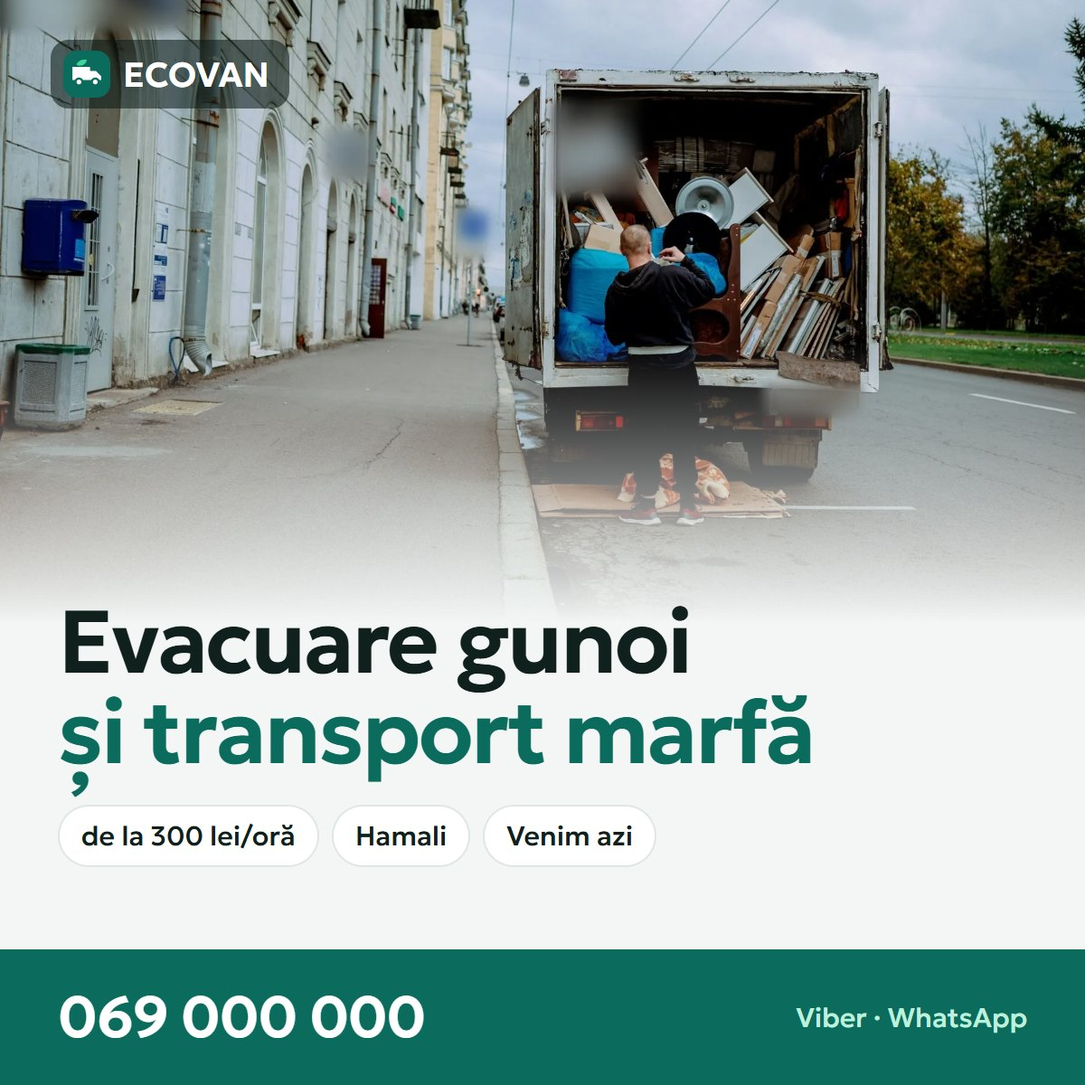
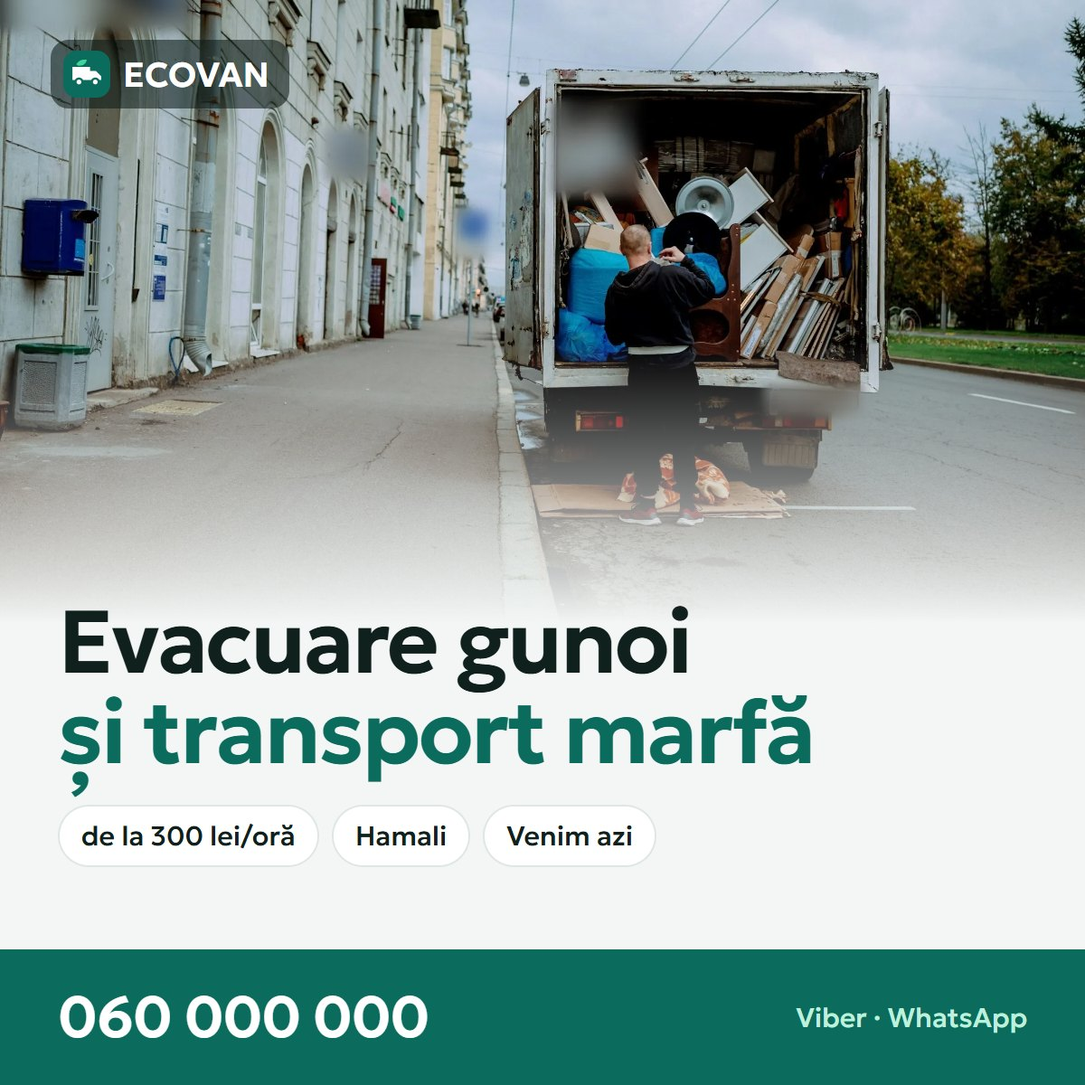
Add files via upload

Changed region(s): [[0.1233, 0.925, 0.4008, 0.9558]]

diff --git a/index.html b/index.html
@@ -3,7 +3,7 @@
 <head>
 <meta charset="utf-8">
 <meta name="viewport" content="width=device-width,initial-scale=1">
-<title>Вывоз мусора и грузоперевозки в Кишинёве — ECOVAN · 069 000 000</title>
+<title>Вывоз мусора и грузоперевозки в Кишинёве — ECOVAN · 060 000 000</title>
 <meta name="description" content="Вывоз строительного мусора, старой мебели и хлама с грузчиками. Грузоперевозки и переезды по Кишинёву и Молдове. Газель от 300 лей/час, приезд в день звонка. Пришлите фото — назовём цену.">
 <link rel="canonical" href="https://webonix-md.github.io/vyvoz/">
 <link rel="alternate" hreflang="ru" href="https://webonix-md.github.io/vyvoz/">
@@ -22,7 +22,7 @@
 <link rel="preload" href="fonts/Geologica-Regular.woff2" as="font" type="font/woff2" crossorigin>
 <link rel="stylesheet" href="style.css">
 <script type="application/ld+json">
-{"@context":"https://schema.org","@type":"MovingCompany","name":"ECOVAN","description":"Вывоз мусора, грузоперевозки и грузчики в Кишинёве","telephone":"+37369000000","url":"https://webonix-md.github.io/vyvoz/","image":"https://webonix-md.github.io/vyvoz/img/og/og-square-ru.jpg","priceRange":"от 300 MDL","areaServed":"Chișinău","address":{"@type":"PostalAddress","addressLocality":"Chișinău","addressCountry":"MD"},"openingHours":"Mo-Su 08:00-20:00"}
+{"@context":"https://schema.org","@type":"MovingCompany","name":"ECOVAN","description":"Вывоз мусора, грузоперевозки и грузчики в Кишинёве","telephone":"+37360000000","url":"https://webonix-md.github.io/vyvoz/","image":"https://webonix-md.github.io/vyvoz/img/og/og-square-ru.jpg","priceRange":"от 300 MDL","areaServed":"Chișinău","address":{"@type":"PostalAddress","addressLocality":"Chișinău","addressCountry":"MD"},"openingHours":"Mo-Su 08:00-20:00"}
 </script>
 </head>
 <body>
@@ -78,7 +78,7 @@
       <a href="#kontakty">Контакты</a>
     </nav>
     <div class="hdr__r">
-      <a class="hdr__tel" href="tel:+37369000000">069 000 000<small>ежедневно 8:00–20:00</small></a>
+      <a class="hdr__tel" href="tel:+37360000000">060 000 000<small>ежедневно 8:00–20:00</small></a>
       <div class="lang"><a href="index.html" aria-current="page">RU</a><a href="ro.html" hreflang="ro">RO</a></div>
       <button class="burger" id="burger" aria-label="Меню" aria-expanded="false" aria-controls="nav"><svg class="i"><use href="#i-menu"/></svg></button>
     </div>
@@ -98,8 +98,8 @@
         <h1>Вывоз мусора и грузоперевозки <span>без хлопот</span></h1>
         <p class="hero__lead">Строительный мусор, старая мебель, хлам из гаража — сами вынесем, погрузим и вывезем на полигон. Переезды и доставка грузов по Молдове.</p>
         <div class="hero__cta">
-          <a class="btn btn--p" href="tel:+37369000000">Позвонить <span class="ar"><svg class="i"><use href="#i-phone"/></svg></span></a>
-          <a class="btn btn--ghost" href="viber://chat?number=%2B37369000000"><svg class="i"><use href="#i-viber"/></svg>Написать в Viber</a>
+          <a class="btn btn--p" href="tel:+37360000000">Позвонить <span class="ar"><svg class="i"><use href="#i-phone"/></svg></span></a>
+          <a class="btn btn--ghost" href="viber://chat?number=%2B37360000000"><svg class="i"><use href="#i-viber"/></svg>Написать в Viber</a>
         </div>
       </div></div>
     </div>
@@ -117,8 +117,8 @@
         <div><label for="q-when">Когда</label>
           <select id="q-when"><option>сегодня</option><option>завтра</option><option>на этой неделе</option></select></div>
         <div class="quick__btns">
-          <a class="btn btn--viber js-viber" href="viber://chat?number=%2B37369000000"><svg class="i"><use href="#i-viber"/></svg>Viber</a>
-          <a class="btn btn--wa js-wa" href="https://wa.me/37369000000" target="_blank" rel="noopener"><svg class="i"><use href="#i-wa"/></svg>WhatsApp</a>
+          <a class="btn btn--viber js-viber" href="viber://chat?number=%2B37360000000"><svg class="i"><use href="#i-viber"/></svg>Viber</a>
+          <a class="btn btn--wa js-wa" href="https://wa.me/37360000000" target="_blank" rel="noopener"><svg class="i"><use href="#i-wa"/></svg>WhatsApp</a>
         </div>
       </div>
       <p class="quick__note"><svg class="i"><use href="#i-camera"/></svg><span><b>Пришлите фото мусора</b> — назовём точную цену за 5 минут, без выезда на осмотр.</span></p>
@@ -207,7 +207,7 @@
           <h3>Газель / фургон</h3>
           <div class="car__specs"><span><svg class="i"><use href="#i-weight"/></svg>1,5 т</span><span><svg class="i"><use href="#i-cube"/></svg>14 м³</span><span><svg class="i"><use href="#i-ruler"/></svg>4,2 × 2 м</span></div>
           <div class="car__price"><small>от</small><b>300 лей</b><small>/ час</small></div>
-          <a class="btn btn--p btn--sm" href="viber://chat?number=%2B37369000000">Заказать</a>
+          <a class="btn btn--p btn--sm" href="viber://chat?number=%2B37360000000">Заказать</a>
         </div>
       </article>
       <article class="car rv">
@@ -216,7 +216,7 @@
           <h3>Будка 3 т</h3>
           <div class="car__specs"><span><svg class="i"><use href="#i-weight"/></svg>3 т</span><span><svg class="i"><use href="#i-cube"/></svg>22 м³</span><span><svg class="i"><use href="#i-ruler"/></svg>5 × 2,2 м</span></div>
           <div class="car__price"><small>от</small><b>450 лей</b><small>/ час</small></div>
-          <a class="btn btn--p btn--sm" href="viber://chat?number=%2B37369000000">Заказать</a>
+          <a class="btn btn--p btn--sm" href="viber://chat?number=%2B37360000000">Заказать</a>
         </div>
       </article>
       <article class="car rv">
@@ -225,7 +225,7 @@
           <h3>Самосвал</h3>
           <div class="car__specs"><span><svg class="i"><use href="#i-weight"/></svg>до 10 т</span><span><svg class="i"><use href="#i-cube"/></svg>10 м³</span><span><svg class="i"><use href="#i-soil"/></svg>грунт, бетон</span></div>
           <div class="car__price"><small>от</small><b>1 500 лей</b><small>/ рейс</small></div>
-          <a class="btn btn--p btn--sm" href="viber://chat?number=%2B37369000000">Заказать</a>
+          <a class="btn btn--p btn--sm" href="viber://chat?number=%2B37360000000">Заказать</a>
         </div>
       </article>
       <article class="car rv">
@@ -234,7 +234,7 @@
           <h3>Контейнер 8 м³</h3>
           <div class="car__specs"><span><svg class="i"><use href="#i-cal"/></svg>48 часов</span><span><svg class="i"><use href="#i-cube"/></svg>8 м³</span><span><svg class="i"><use href="#i-ruler"/></svg>3,5 × 1,7 м</span></div>
           <div class="car__price"><small>от</small><b>2 500 лей</b><small>/ вывоз</small></div>
-          <a class="btn btn--p btn--sm" href="viber://chat?number=%2B37369000000">Заказать</a>
+          <a class="btn btn--p btn--sm" href="viber://chat?number=%2B37360000000">Заказать</a>
         </div>
       </article>
     </div>
@@ -276,7 +276,7 @@
           </div>
           <p class="res__note" id="r-note"></p>
         </div>
-        <a class="btn btn--p" href="viber://chat?number=%2B37369000000">Уточнить цену в Viber <span class="ar"><svg class="i"><use href="#i-arrow"/></svg></span></a>
+        <a class="btn btn--p" href="viber://chat?number=%2B37360000000">Уточнить цену в Viber <span class="ar"><svg class="i"><use href="#i-arrow"/></svg></span></a>
       </div>
     </div>
   </div>
@@ -331,7 +331,7 @@
       <div class="work rv"><figure><img src="img/work-3.webp" width="900" height="675" alt="Куча обломков гипсокартона в квартире" loading="lazy"></figure><figcaption><b>Демонтаж и строймусор</b><span>Вынесем с этажа без лифта, соберём в мешки</span></figcaption></div>
       <div class="work rv"><figure><img src="img/work-4.webp" width="900" height="675" alt="Грузчик везёт тележку с коробками к фургону" loading="lazy"></figure><figcaption><b>Переезды и доставка</b><span>Квартира, офис, склад — с упаковкой и сборкой</span></figcaption></div>
       <div class="work rv"><figure><img src="img/work-5.webp" width="900" height="675" alt="Человек несёт старый матрас по улице" loading="lazy"></figure><figcaption><b>Матрасы, диваны, кровати</b><span>Даже одну вещь — без минимального объёма</span></figcaption></div>
-      <div class="works__more rv"><p>Пришлите фото вашего мусора<span>Скажем, какая машина нужна и сколько будет стоить.</span></p><a class="btn btn--viber" href="viber://chat?number=%2B37369000000"><svg class="i"><use href="#i-viber"/></svg>Отправить фото</a></div>
+      <div class="works__more rv"><p>Пришлите фото вашего мусора<span>Скажем, какая машина нужна и сколько будет стоить.</span></p><a class="btn btn--viber" href="viber://chat?number=%2B37360000000"><svg class="i"><use href="#i-viber"/></svg>Отправить фото</a></div>
     </div>
   </div>
 </section>
@@ -380,7 +380,7 @@
       <span class="eyebrow">Вопросы</span>
       <h2>Частые вопросы</h2>
       <p>Не нашли ответ — позвоните или напишите, ответим за пару минут.</p>
-      <a class="btn btn--p" href="tel:+37369000000">069 000 000 <span class="ar"><svg class="i"><use href="#i-phone"/></svg></span></a>
+      <a class="btn btn--p" href="tel:+37360000000">060 000 000 <span class="ar"><svg class="i"><use href="#i-phone"/></svg></span></a>
     </div>
     <div class="rv">
       <details open><summary>Сколько стоит вывоз мусора?</summary><p>Зависит от объёма, этажа и наличия лифта. Газель с водителем — от 300 лей в час, грузчик — от 120 лей в час, минимальный заказ — 1 час. Проще всего прислать фото: назовём цену сразу и на месте её не меняем.</p></details>
@@ -402,9 +402,9 @@
         <h2>Освободим место уже сегодня</h2>
         <p>Позвоните или пришлите фото в мессенджер — назовём цену и время приезда за 5 минут.</p>
         <div class="cta__btns">
-          <a class="btn btn--w" href="tel:+37369000000">069 000 000 <span class="ar"><svg class="i"><use href="#i-phone"/></svg></span></a>
-          <a class="btn btn--viber" href="viber://chat?number=%2B37369000000"><svg class="i"><use href="#i-viber"/></svg>Viber</a>
-          <a class="btn btn--wa" href="https://wa.me/37369000000" target="_blank" rel="noopener"><svg class="i"><use href="#i-wa"/></svg>WhatsApp</a>
+          <a class="btn btn--w" href="tel:+37360000000">060 000 000 <span class="ar"><svg class="i"><use href="#i-phone"/></svg></span></a>
+          <a class="btn btn--viber" href="viber://chat?number=%2B37360000000"><svg class="i"><use href="#i-viber"/></svg>Viber</a>
+          <a class="btn btn--wa" href="https://wa.me/37360000000" target="_blank" rel="noopener"><svg class="i"><use href="#i-wa"/></svg>WhatsApp</a>
         </div>
       </div>
       <div class="cta__img"><img src="img/cta.webp" width="900" height="675" alt="" loading="lazy"></div>
@@ -421,8 +421,8 @@
         <a href="#" class="logo"><svg viewBox="0 0 36 36" aria-hidden="true"><rect width="36" height="36" rx="11" fill="#0B6B5D"/><path d="M7 12.5h13.5v10H7zM20.5 15.5h4.5l4 4v3h-8.5z" fill="#fff"/><circle cx="12" cy="24" r="2.6" fill="#fff" stroke="#0B6B5D" stroke-width="1.6"/><circle cx="24.5" cy="24" r="2.6" fill="#fff" stroke="#0B6B5D" stroke-width="1.6"/><path d="M10 10.5c1.5-3 4.5-4 8-3.6-.6 3.2-3 5-6.6 4.6" fill="#3FD69B"/></svg>ECOVAN</a>
         <p>Вывоз мусора, грузоперевозки и грузчики в Кишинёве и по Молдове.</p>
         <div class="foot__soc">
-          <a href="viber://chat?number=%2B37369000000" aria-label="Viber"><svg class="i"><use href="#i-viber"/></svg></a>
-          <a href="https://wa.me/37369000000" aria-label="WhatsApp" target="_blank" rel="noopener"><svg class="i"><use href="#i-wa"/></svg></a>
+          <a href="viber://chat?number=%2B37360000000" aria-label="Viber"><svg class="i"><use href="#i-viber"/></svg></a>
+          <a href="https://wa.me/37360000000" aria-label="WhatsApp" target="_blank" rel="noopener"><svg class="i"><use href="#i-wa"/></svg></a>
           <a href="https://t.me/" aria-label="Telegram" target="_blank" rel="noopener"><svg class="i"><use href="#i-tg"/></svg></a>
           <a href="https://facebook.com/" aria-label="Facebook" target="_blank" rel="noopener"><svg class="i"><use href="#i-fb"/></svg></a>
           <a href="https://instagram.com/" aria-label="Instagram" target="_blank" rel="noopener"><svg class="i"><use href="#i-ig"/></svg></a>
@@ -439,7 +439,7 @@
       <div>
         <h4>Контакты</h4>
         <ul class="foot__c">
-          <li><svg class="i"><use href="#i-phone"/></svg><a href="tel:+37369000000">069 000 000</a></li>
+          <li><svg class="i"><use href="#i-phone"/></svg><a href="tel:+37360000000">060 000 000</a></li>
           <li><svg class="i"><use href="#i-clock"/></svg>Ежедневно 8:00–20:00</li>
           <li><svg class="i"><use href="#i-pin"/></svg>Кишинёв и пригороды, выезд по Молдове</li>
           <li><svg class="i"><use href="#i-mail"/></svg><a href="mailto:info@example.md">info@example.md</a></li>
@@ -452,9 +452,9 @@
 
 <!-- нижняя панель на телефоне -->
 <nav class="mbar" aria-label="Связаться">
-  <a class="m-tel" href="tel:+37369000000"><svg class="i"><use href="#i-phone"/></svg>Звонок</a>
-  <a class="m-vb" href="viber://chat?number=%2B37369000000"><svg class="i"><use href="#i-viber"/></svg>Viber</a>
-  <a class="m-wa" href="https://wa.me/37369000000" target="_blank" rel="noopener"><svg class="i"><use href="#i-wa"/></svg>WhatsApp</a>
+  <a class="m-tel" href="tel:+37360000000"><svg class="i"><use href="#i-phone"/></svg>Звонок</a>
+  <a class="m-vb" href="viber://chat?number=%2B37360000000"><svg class="i"><use href="#i-viber"/></svg>Viber</a>
+  <a class="m-wa" href="https://wa.me/37360000000" target="_blank" rel="noopener"><svg class="i"><use href="#i-wa"/></svg>WhatsApp</a>
 </nav>
 <div class="toast" id="toast" role="status"></div>
 

diff --git a/ro.html b/ro.html
@@ -3,7 +3,7 @@
 <head>
 <meta charset="utf-8">
 <meta name="viewport" content="width=device-width,initial-scale=1">
-<title>Evacuare gunoi și transport marfă în Chișinău — ECOVAN · 069 000 000</title>
+<title>Evacuare gunoi și transport marfă în Chișinău — ECOVAN · 060 000 000</title>
 <meta name="description" content="Evacuarea deșeurilor din construcții, a mobilei vechi și a lucrurilor inutile, cu hamali. Transport marfă și mutări în Chișinău și Moldova. Dubă de la 300 lei/oră, venim în ziua apelului. Trimiteți o poză — vă spunem prețul.">
 <link rel="canonical" href="https://webonix-md.github.io/vyvoz/ro.html">
 <link rel="alternate" hreflang="ru" href="https://webonix-md.github.io/vyvoz/">
@@ -22,7 +22,7 @@
 <link rel="preload" href="fonts/Geologica-Regular.woff2" as="font" type="font/woff2" crossorigin>
 <link rel="stylesheet" href="style.css">
 <script type="application/ld+json">
-{"@context":"https://schema.org","@type":"MovingCompany","name":"ECOVAN","description":"Evacuare gunoi, transport marfă și hamali în Chișinău","telephone":"+37369000000","url":"https://webonix-md.github.io/vyvoz/ro.html","image":"https://webonix-md.github.io/vyvoz/img/og/og-square-ro.jpg","priceRange":"de la 300 MDL","areaServed":"Chișinău","address":{"@type":"PostalAddress","addressLocality":"Chișinău","addressCountry":"MD"},"openingHours":"Mo-Su 08:00-20:00"}
+{"@context":"https://schema.org","@type":"MovingCompany","name":"ECOVAN","description":"Evacuare gunoi, transport marfă și hamali în Chișinău","telephone":"+37360000000","url":"https://webonix-md.github.io/vyvoz/ro.html","image":"https://webonix-md.github.io/vyvoz/img/og/og-square-ro.jpg","priceRange":"de la 300 MDL","areaServed":"Chișinău","address":{"@type":"PostalAddress","addressLocality":"Chișinău","addressCountry":"MD"},"openingHours":"Mo-Su 08:00-20:00"}
 </script>
 </head>
 <body>
@@ -78,7 +78,7 @@
       <a href="#kontakty">Contacte</a>
     </nav>
     <div class="hdr__r">
-      <a class="hdr__tel" href="tel:+37369000000">069 000 000<small>zilnic 8:00–20:00</small></a>
+      <a class="hdr__tel" href="tel:+37360000000">060 000 000<small>zilnic 8:00–20:00</small></a>
       <div class="lang"><a href="index.html" hreflang="ru">RU</a><a href="ro.html" aria-current="page">RO</a></div>
       <button class="burger" id="burger" aria-label="Meniu" aria-expanded="false" aria-controls="nav"><svg class="i"><use href="#i-menu"/></svg></button>
     </div>
@@ -98,8 +98,8 @@
         <h1>Evacuare gunoi și transport marfă <span>fără bătăi de cap</span></h1>
         <p class="hero__lead">Moloz, mobilă veche, lucruri din garaj — le scoatem noi, le încărcăm și le ducem la poligon. Mutări și transport marfă în toată Moldova.</p>
         <div class="hero__cta">
-          <a class="btn btn--p" href="tel:+37369000000">Sunați <span class="ar"><svg class="i"><use href="#i-phone"/></svg></span></a>
-          <a class="btn btn--ghost" href="viber://chat?number=%2B37369000000"><svg class="i"><use href="#i-viber"/></svg>Scrieți pe Viber</a>
+          <a class="btn btn--p" href="tel:+37360000000">Sunați <span class="ar"><svg class="i"><use href="#i-phone"/></svg></span></a>
+          <a class="btn btn--ghost" href="viber://chat?number=%2B37360000000"><svg class="i"><use href="#i-viber"/></svg>Scrieți pe Viber</a>
         </div>
       </div></div>
     </div>
@@ -117,8 +117,8 @@
         <div><label for="q-when">Când</label>
           <select id="q-when"><option>astăzi</option><option>mâine</option><option>săptămâna aceasta</option></select></div>
         <div class="quick__btns">
-          <a class="btn btn--viber js-viber" href="viber://chat?number=%2B37369000000"><svg class="i"><use href="#i-viber"/></svg>Viber</a>
-          <a class="btn btn--wa js-wa" href="https://wa.me/37369000000" target="_blank" rel="noopener"><svg class="i"><use href="#i-wa"/></svg>WhatsApp</a>
+          <a class="btn btn--viber js-viber" href="viber://chat?number=%2B37360000000"><svg class="i"><use href="#i-viber"/></svg>Viber</a>
+          <a class="btn btn--wa js-wa" href="https://wa.me/37360000000" target="_blank" rel="noopener"><svg class="i"><use href="#i-wa"/></svg>WhatsApp</a>
         </div>
       </div>
       <p class="quick__note"><svg class="i"><use href="#i-camera"/></svg><span><b>Trimiteți o poză cu gunoiul</b> — vă spunem prețul exact în 5 minute, fără deplasare la fața locului.</span></p>
@@ -207,7 +207,7 @@
           <h3>Dubă / furgon</h3>
           <div class="car__specs"><span><svg class="i"><use href="#i-weight"/></svg>1,5 t</span><span><svg class="i"><use href="#i-cube"/></svg>14 m³</span><span><svg class="i"><use href="#i-ruler"/></svg>4,2 × 2 m</span></div>
           <div class="car__price"><small>de la</small><b>300 lei</b><small>/ oră</small></div>
-          <a class="btn btn--p btn--sm" href="viber://chat?number=%2B37369000000">Comandă</a>
+          <a class="btn btn--p btn--sm" href="viber://chat?number=%2B37360000000">Comandă</a>
         </div>
       </article>
       <article class="car rv">
@@ -216,7 +216,7 @@
           <h3>Camion 3 t</h3>
           <div class="car__specs"><span><svg class="i"><use href="#i-weight"/></svg>3 t</span><span><svg class="i"><use href="#i-cube"/></svg>22 m³</span><span><svg class="i"><use href="#i-ruler"/></svg>5 × 2,2 m</span></div>
           <div class="car__price"><small>de la</small><b>450 lei</b><small>/ oră</small></div>
-          <a class="btn btn--p btn--sm" href="viber://chat?number=%2B37369000000">Comandă</a>
+          <a class="btn btn--p btn--sm" href="viber://chat?number=%2B37360000000">Comandă</a>
         </div>
       </article>
       <article class="car rv">
@@ -225,7 +225,7 @@
           <h3>Autobasculantă</h3>
           <div class="car__specs"><span><svg class="i"><use href="#i-weight"/></svg>până la 10 t</span><span><svg class="i"><use href="#i-cube"/></svg>10 m³</span><span><svg class="i"><use href="#i-soil"/></svg>pământ, beton</span></div>
           <div class="car__price"><small>de la</small><b>1 500 lei</b><small>/ cursă</small></div>
-          <a class="btn btn--p btn--sm" href="viber://chat?number=%2B37369000000">Comandă</a>
+          <a class="btn btn--p btn--sm" href="viber://chat?number=%2B37360000000">Comandă</a>
         </div>
       </article>
       <article class="car rv">
@@ -234,7 +234,7 @@
           <h3>Container 8 m³</h3>
           <div class="car__specs"><span><svg class="i"><use href="#i-cal"/></svg>48 de ore</span><span><svg class="i"><use href="#i-cube"/></svg>8 m³</span><span><svg class="i"><use href="#i-ruler"/></svg>3,5 × 1,7 m</span></div>
           <div class="car__price"><small>de la</small><b>2 500 lei</b><small>/ evacuare</small></div>
-          <a class="btn btn--p btn--sm" href="viber://chat?number=%2B37369000000">Comandă</a>
+          <a class="btn btn--p btn--sm" href="viber://chat?number=%2B37360000000">Comandă</a>
         </div>
       </article>
     </div>
@@ -276,7 +276,7 @@
           </div>
           <p class="res__note" id="r-note"></p>
         </div>
-        <a class="btn btn--p" href="viber://chat?number=%2B37369000000">Aflați prețul pe Viber <span class="ar"><svg class="i"><use href="#i-arrow"/></svg></span></a>
+        <a class="btn btn--p" href="viber://chat?number=%2B37360000000">Aflați prețul pe Viber <span class="ar"><svg class="i"><use href="#i-arrow"/></svg></span></a>
       </div>
     </div>
   </div>
@@ -331,7 +331,7 @@
       <div class="work rv"><figure><img src="img/work-3.webp" width="900" height="675" alt="Grămadă de gips-carton spart într-un apartament" loading="lazy"></figure><figcaption><b>Demolare și moloz</b><span>Coborâm de la etaj fără lift, strângem în saci</span></figcaption></div>
       <div class="work rv"><figure><img src="img/work-4.webp" width="900" height="675" alt="Hamal duce un cărucior cu cutii spre dubă" loading="lazy"></figure><figcaption><b>Mutări și livrări</b><span>Apartament, oficiu, depozit — cu ambalare și montare</span></figcaption></div>
       <div class="work rv"><figure><img src="img/work-5.webp" width="900" height="675" alt="Un om duce o saltea veche pe stradă" loading="lazy"></figure><figcaption><b>Saltele, canapele, paturi</b><span>Chiar și un singur obiect — fără volum minim</span></figcaption></div>
-      <div class="works__more rv"><p>Trimiteți o poză cu gunoiul<span>Vă spunem ce mașină trebuie și cât va costa.</span></p><a class="btn btn--viber" href="viber://chat?number=%2B37369000000"><svg class="i"><use href="#i-viber"/></svg>Trimite poza</a></div>
+      <div class="works__more rv"><p>Trimiteți o poză cu gunoiul<span>Vă spunem ce mașină trebuie și cât va costa.</span></p><a class="btn btn--viber" href="viber://chat?number=%2B37360000000"><svg class="i"><use href="#i-viber"/></svg>Trimite poza</a></div>
     </div>
   </div>
 </section>
@@ -380,7 +380,7 @@
       <span class="eyebrow">Întrebări</span>
       <h2>Întrebări frecvente</h2>
       <p>Nu ați găsit răspunsul — sunați sau scrieți, răspundem în câteva minute.</p>
-      <a class="btn btn--p" href="tel:+37369000000">069 000 000 <span class="ar"><svg class="i"><use href="#i-phone"/></svg></span></a>
+      <a class="btn btn--p" href="tel:+37360000000">060 000 000 <span class="ar"><svg class="i"><use href="#i-phone"/></svg></span></a>
     </div>
     <div class="rv">
       <details open><summary>Cât costă evacuarea gunoiului?</summary><p>Depinde de volum, etaj și dacă există lift. Duba cu șofer — de la 300 lei pe oră, hamalul — de la 120 lei pe oră, comanda minimă — 1 oră. Cel mai simplu e să trimiteți o poză: vă spunem prețul imediat și nu-l schimbăm la fața locului.</p></details>
@@ -402,9 +402,9 @@
         <h2>Eliberăm spațiul chiar astăzi</h2>
         <p>Sunați sau trimiteți o poză pe messenger — vă spunem prețul și ora sosirii în 5 minute.</p>
         <div class="cta__btns">
-          <a class="btn btn--w" href="tel:+37369000000">069 000 000 <span class="ar"><svg class="i"><use href="#i-phone"/></svg></span></a>
-          <a class="btn btn--viber" href="viber://chat?number=%2B37369000000"><svg class="i"><use href="#i-viber"/></svg>Viber</a>
-          <a class="btn btn--wa" href="https://wa.me/37369000000" target="_blank" rel="noopener"><svg class="i"><use href="#i-wa"/></svg>WhatsApp</a>
+          <a class="btn btn--w" href="tel:+37360000000">060 000 000 <span class="ar"><svg class="i"><use href="#i-phone"/></svg></span></a>
+          <a class="btn btn--viber" href="viber://chat?number=%2B37360000000"><svg class="i"><use href="#i-viber"/></svg>Viber</a>
+          <a class="btn btn--wa" href="https://wa.me/37360000000" target="_blank" rel="noopener"><svg class="i"><use href="#i-wa"/></svg>WhatsApp</a>
         </div>
       </div>
       <div class="cta__img"><img src="img/cta.webp" width="900" height="675" alt="" loading="lazy"></div>
@@ -421,8 +421,8 @@
         <a href="#" class="logo"><svg viewBox="0 0 36 36" aria-hidden="true"><rect width="36" height="36" rx="11" fill="#0B6B5D"/><path d="M7 12.5h13.5v10H7zM20.5 15.5h4.5l4 4v3h-8.5z" fill="#fff"/><circle cx="12" cy="24" r="2.6" fill="#fff" stroke="#0B6B5D" stroke-width="1.6"/><circle cx="24.5" cy="24" r="2.6" fill="#fff" stroke="#0B6B5D" stroke-width="1.6"/><path d="M10 10.5c1.5-3 4.5-4 8-3.6-.6 3.2-3 5-6.6 4.6" fill="#3FD69B"/></svg>ECOVAN</a>
         <p>Evacuare gunoi, transport marfă și hamali în Chișinău și în toată Moldova.</p>
         <div class="foot__soc">
-          <a href="viber://chat?number=%2B37369000000" aria-label="Viber"><svg class="i"><use href="#i-viber"/></svg></a>
-          <a href="https://wa.me/37369000000" aria-label="WhatsApp" target="_blank" rel="noopener"><svg class="i"><use href="#i-wa"/></svg></a>
+          <a href="viber://chat?number=%2B37360000000" aria-label="Viber"><svg class="i"><use href="#i-viber"/></svg></a>
+          <a href="https://wa.me/37360000000" aria-label="WhatsApp" target="_blank" rel="noopener"><svg class="i"><use href="#i-wa"/></svg></a>
           <a href="https://t.me/" aria-label="Telegram" target="_blank" rel="noopener"><svg class="i"><use href="#i-tg"/></svg></a>
           <a href="https://facebook.com/" aria-label="Facebook" target="_blank" rel="noopener"><svg class="i"><use href="#i-fb"/></svg></a>
           <a href="https://instagram.com/" aria-label="Instagram" target="_blank" rel="noopener"><svg class="i"><use href="#i-ig"/></svg></a>
@@ -439,7 +439,7 @@
       <div>
         <h4>Contacte</h4>
         <ul class="foot__c">
-          <li><svg class="i"><use href="#i-phone"/></svg><a href="tel:+37369000000">069 000 000</a></li>
+          <li><svg class="i"><use href="#i-phone"/></svg><a href="tel:+37360000000">060 000 000</a></li>
           <li><svg class="i"><use href="#i-clock"/></svg>Zilnic 8:00–20:00</li>
           <li><svg class="i"><use href="#i-pin"/></svg>Chișinău și suburbii, deplasări în toată Moldova</li>
           <li><svg class="i"><use href="#i-mail"/></svg><a href="mailto:info@example.md">info@example.md</a></li>
@@ -452,9 +452,9 @@
 
 <!-- нижняя панель на телефоне -->
 <nav class="mbar" aria-label="Contactați-ne">
-  <a class="m-tel" href="tel:+37369000000"><svg class="i"><use href="#i-phone"/></svg>Apel</a>
-  <a class="m-vb" href="viber://chat?number=%2B37369000000"><svg class="i"><use href="#i-viber"/></svg>Viber</a>
-  <a class="m-wa" href="https://wa.me/37369000000" target="_blank" rel="noopener"><svg class="i"><use href="#i-wa"/></svg>WhatsApp</a>
+  <a class="m-tel" href="tel:+37360000000"><svg class="i"><use href="#i-phone"/></svg>Apel</a>
+  <a class="m-vb" href="viber://chat?number=%2B37360000000"><svg class="i"><use href="#i-viber"/></svg>Viber</a>
+  <a class="m-wa" href="https://wa.me/37360000000" target="_blank" rel="noopener"><svg class="i"><use href="#i-wa"/></svg>WhatsApp</a>
 </nav>
 <div class="toast" id="toast" role="status"></div>
 
